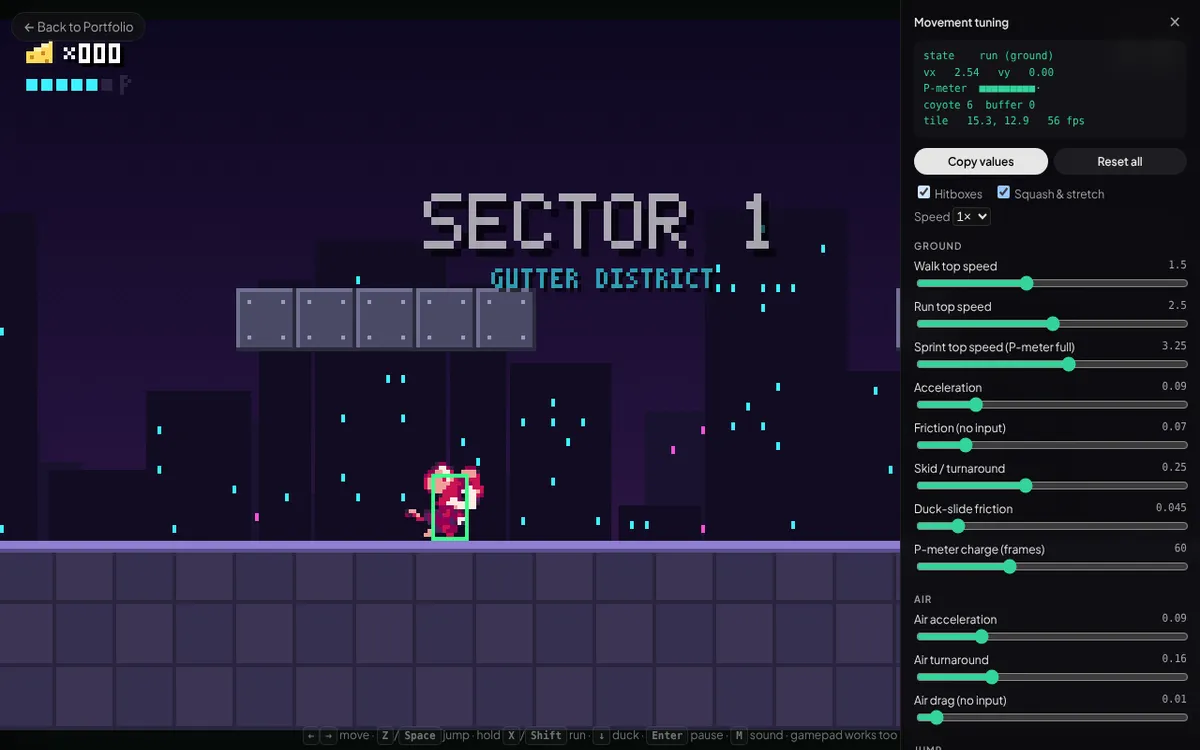
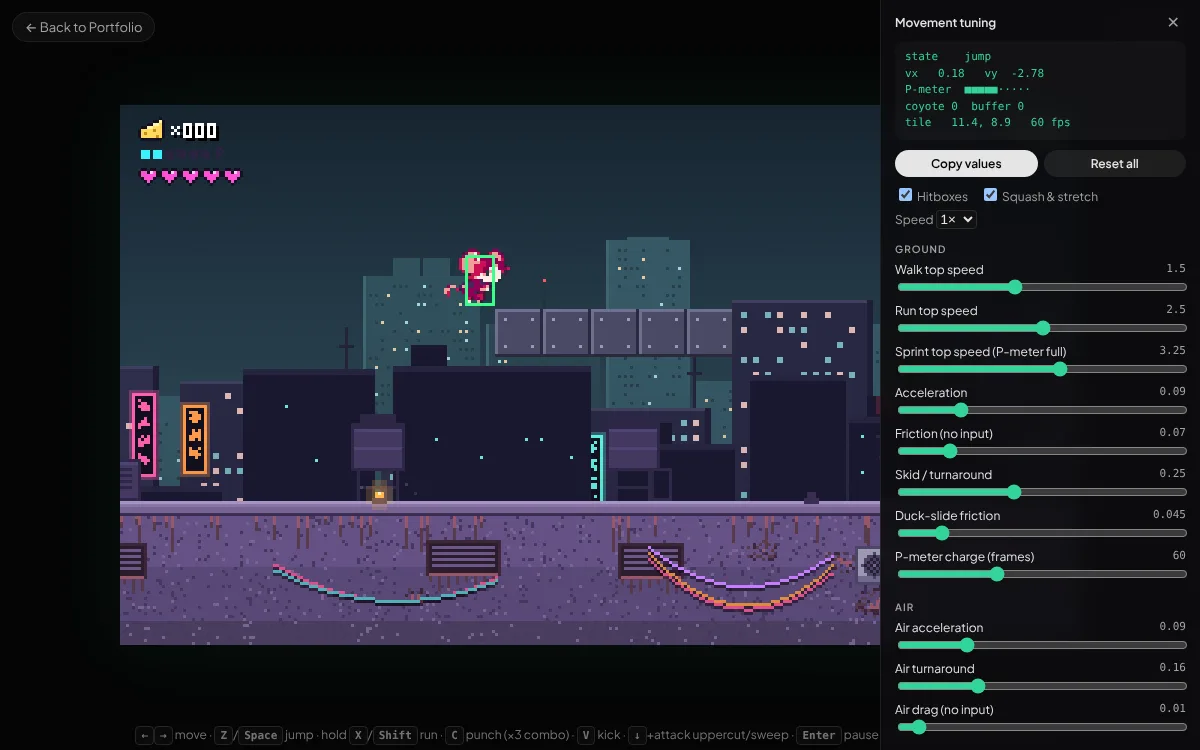
Site UX pass: phone menu, scrollspy, hero matches the game
- Phones get a real menu: the homepage's seven section links open as a
  sheet (aria-expanded, focus moves in, Esc/link/outside tap closes it).
  Subpage headers keep their two links inline and fit down to 360px.
- Desktop nav highlights the section on screen; anchor jumps clear the
  sticky header (scroll-padding-top).
- Hero canvas is now 320x180 and drawn with the game's own skyline and
  rooftop painter, so it matches Mousecapades v0.5; larger in the grid.
  Fixes reduced-motion visitors seeing the placeholder mouse forever.
- New tuning-panel screenshot with the current art.
- Honest copy: gallery and services no longer imply hand-drawn sprites.
- Palette swatch contrast fix (axe now clean in light and dark).
- CLAUDE.md documents the header and hero conventions.

Claude-Session: https://claude.ai/code/session_01HrtLAUuepTiWPixLfD6zXR

diff --git a/assets/js/hero-mouse.js b/assets/js/hero-mouse.js
@@ -1,13 +1,18 @@
-// Homepage hero: the Mousecapades mouse running a tiny endless strip, using the game's own
-// sprite and font code. Click, tap or press Space/↑ on the stage to jump. Also hosts the
-// Konami-code easter egg (cheese rain).
+// Homepage hero: the Mousecapades mouse running an endless rooftop, drawn with the game's own
+// sprite, font, skyline and rooftop code so the hero always matches the game. Click, tap or
+// press Space/↑ on the stage to jump. Also hosts the Konami-code easter egg (cheese rain).
 import { drawPlayer } from '../../games/mousecapades/js/render.js';
 import { makeSprites, blit } from '../../games/mousecapades/js/sprites.js';
 import { drawText } from '../../games/mousecapades/js/font.js';
+import { spriteReady } from '../../games/mousecapades/js/mouse-sprite.js';
+import { Backdrop } from '../../games/mousecapades/js/backdrop.js';
+import { buildScenery, drawLights } from '../../games/mousecapades/js/scenery.js';
+import { Level, builder } from '../../games/mousecapades/js/level.js';
 
-const W = 256;
-const H = 120;
-const FLOOR = 96;
+const W = 320;
+const H = 180;
+const FLOOR = 148;
+const ROOF_ROW = 9; // rooftop surface row in the strip below (9 × 16 = 144 px)
 
 const canvas = document.getElementById('hero-stage');
 const sp = makeSprites();
@@ -19,7 +24,8 @@ if (canvas) {
   canvas.height = H;
   const ctx = canvas.getContext('2d');
   ctx.imageSmoothingEnabled = false;
-  const city = skyline();
+  const backdrop = new Backdrop();
+  const roof = rooftop();
 
   const mouse = { x: 40, y: FLOOR - 17, w: 10, h: 17, vx: 0, vy: 0, facing: 1, grounded: true, anim: 0, sx: 1, sy: 1, state: 'idle', ducking: false };
   const chips = [];
@@ -94,21 +100,15 @@ if (canvas) {
   }
 
   function draw() {
-    const g = ctx.createLinearGradient(0, 0, 0, H);
-    g.addColorStop(0, '#0d0820'); g.addColorStop(0.7, '#2a1440'); g.addColorStop(1, '#3a1a4a');
-    ctx.fillStyle = g;
-    ctx.fillRect(0, 0, W, H);
-    const off = -Math.round(scroll * 0.3) % city.width;
-    for (let x = off; x < W; x += city.width) ctx.drawImage(city, x, FLOOR - city.height + 4);
-
-    // Ground strip in the game's tile colours.
-    const gOff = -Math.round(scroll) % 16;
-    for (let x = gOff; x < W; x += 16) {
-      ctx.fillStyle = ((x - gOff) / 16) % 2 ? '#3b3454' : '#363050';
-      ctx.fillRect(x, FLOOR, 16, H - FLOOR);
+    backdrop.draw(ctx, Math.round(scroll), 60, t);
+    // The rooftop strip tiles sideways; its lamps blink like the game's.
+    const rw = roof.canvas.width;
+    const rOff = Math.round(scroll) % rw;
+    const dy = FLOOR - ROOF_ROW * 16;
+    for (let x = -rOff; x < W; x += rw) {
+      ctx.drawImage(roof.canvas, x, dy);
+      drawLights(ctx, roof.lights, -x, -dy, t);
     }
-    ctx.fillStyle = '#8f7fd0'; ctx.fillRect(0, FLOOR, W, 2);
-    ctx.fillStyle = '#5c4f8f'; ctx.fillRect(0, FLOOR + 2, W, 1);
 
     for (const c of chips) blit(ctx, sp.chip, c.x, c.y + Math.round(Math.sin((t + c.bob * 10) * 0.08) * 1.5));
     ctx.fillStyle = '#ffd95e';
@@ -120,7 +120,10 @@ if (canvas) {
   }
 
   if (reduceMotion) {
+    // One still frame, redrawn once the sprite sheet has loaded.
     draw();
+    const wait = setInterval(() => { if (spriteReady()) { draw(); clearInterval(wait); } }, 100);
+    setTimeout(() => clearInterval(wait), 5000);
   } else {
     let visible = true;
     new IntersectionObserver(([e]) => { visible = e.isIntersecting; }).observe(canvas);
@@ -167,26 +170,9 @@ function cheeseRain() {
   setTimeout(() => layer.remove(), 5000);
 }
 
-// Small procedural skyline, same idea as the game's parallax layer.
-function skyline() {
-  const c = document.createElement('canvas');
-  c.width = 300;
-  c.height = 70;
-  const g = c.getContext('2d');
-  let seed = 7;
-  const rand = () => ((seed = (seed * 16807) % 2147483647) / 2147483647);
-  let x = 0;
-  while (x < c.width) {
-    const w = 12 + Math.floor(rand() * 22);
-    const h = 18 + Math.floor(rand() * 48);
-    g.fillStyle = '#1a1230';
-    g.fillRect(x, c.height - h, w, h);
-    for (let wy = c.height - h + 4; wy < c.height - 4; wy += 5) {
-      for (let wx = x + 3; wx < x + w - 3; wx += 4) {
-        if (rand() < 0.12) { g.fillStyle = rand() < 0.5 ? '#ff4fd8' : '#ffd95e'; g.fillRect(wx, wy, 1, 2); }
-      }
-    }
-    x += w + Math.floor(rand() * 3);
-  }
-  return c;
+// A flat stretch of roof baked with the game's scenery painter (40 tiles, then it repeats).
+function rooftop() {
+  const L = new Level(40, 12);
+  builder(L, ROOF_ROW).ground(0, 39);
+  return buildScenery(L);
 }

diff --git a/index.html b/index.html
@@ -44,7 +44,7 @@
                 Ross Grant
             </a>
             <nav class="nav" aria-label="Primary">
-                <div class="nav-links">
+                <div class="nav-links" id="nav-links">
                     <a href="#work">Work</a>
                     <a href="#art">Art</a>
                     <a href="#process">Process</a>
@@ -53,6 +53,9 @@
                     <a href="#contact">Contact</a>
                     <a href="resume.html">Résumé</a>
                 </div>
+                <button class="icon-btn menu-btn" type="button" aria-expanded="false" aria-controls="nav-links" aria-label="Open menu" data-menu-toggle>
+                    <svg viewBox="0 0 24 24" fill="none" stroke="currentColor" stroke-width="2" stroke-linecap="round" aria-hidden="true"><path class="menu-open" d="M4 7h16M4 12h16M4 17h16"/><path class="menu-close" d="M6 6l12 12M18 6L6 18"/></svg>
+                </button>
                 <button class="icon-btn" type="button" data-theme-toggle>
                     <svg viewBox="0 0 24 24" fill="none" stroke="currentColor" stroke-width="2" stroke-linecap="round" aria-hidden="true"><path d="M21 12.8A9 9 0 1 1 11.2 3a7 7 0 0 0 9.8 9.8z"/></svg>
                 </button>
@@ -75,8 +78,8 @@
                     </div>
                 </div>
                 <figure class="stage" style="margin:0">
-                    <canvas id="hero-stage" class="pixel" width="256" height="120" tabindex="0"
-                        aria-label="Animated pixel-art mouse running and collecting cheese. Click or press Space to make her jump."></canvas>
+                    <canvas id="hero-stage" class="pixel" width="320" height="180" tabindex="0"
+                        aria-label="Animated pixel-art mouse running across neon-lit rooftops and collecting cheese. Click or press Space to make her jump."></canvas>
                     <figcaption class="stage-caption">
                         <span>Click or press <kbd>Space</kbd> to jump</span>
                         <a href="#mousecapades">She's from Mousecapades ↓</a>
@@ -192,7 +195,7 @@
                 <div class="section-head reveal">
                     <span class="eyebrow">Art &amp; visuals</span>
                     <h2>Every pixel placed on purpose.</h2>
-                    <p class="lede">Sprites, tiles and screens from Mousecapades, all drawn to a 320 × 180 canvas and scaled up with hard edges.</p>
+                    <p class="lede">Characters, enemies and screens from Mousecapades. Everything renders at 320 × 180 and scales up with hard pixel edges.</p>
                 </div>
                 <div class="gallery reveal">
                     <figure class="span2">
@@ -215,7 +218,7 @@
                         <div class="palette" role="img" aria-label="Game palette swatches">
                             <span style="background:#162430">162430</span><span style="background:#365866">365866</span>
                             <span style="background:#282743">282743</span><span style="background:#655185">655185</span>
-                            <span style="background:#ff5fae">ff5fae</span><span style="background:#5ff0e0;color:#162430;text-shadow:none">5ff0e0</span>
+                            <span style="background:#ff5fae;color:#162430;text-shadow:none">ff5fae</span><span style="background:#5ff0e0;color:#162430;text-shadow:none">5ff0e0</span>
                             <span style="background:#ffd95e;color:#162430;text-shadow:none">ffd95e</span><span style="background:#a593c4;color:#162430;text-shadow:none">a593c4</span>
                         </div>
                         <figcaption>Palette</figcaption>
@@ -313,7 +316,7 @@
                     </article>
                     <article class="service">
                         <h3>Pixel art &amp; game UI</h3>
-                        <p>Characters, tilesets, HUDs and menus, drawn in a palette built for your game and delivered as clean sprite sheets.</p>
+                        <p>Characters, tilesets, HUDs and menus, art-directed to a palette built for your game and delivered as clean, game-ready sprite sheets.</p>
                     </article>
                     <article class="service">
                         <h3>Playable prototypes</h3>

diff --git a/assets/css/site.css b/assets/css/site.css
@@ -45,7 +45,7 @@
 /* ---- Base ---------------------------------------------------------------- */
 
 *, *::before, *::after { box-sizing: border-box; }
-html { scroll-behavior: smooth; -webkit-text-size-adjust: 100%; }
+html { scroll-behavior: smooth; scroll-padding-top: 76px; -webkit-text-size-adjust: 100%; }
 body {
   margin: 0;
   background: var(--paper);
@@ -128,14 +128,41 @@ p { margin: 0 0 var(--s3); }
 }
 .icon-btn:hover { border-color: var(--ink); }
 .icon-btn svg { width: 20px; height: 20px; }
+.nav a[aria-current="true"] { color: var(--ink); background: var(--surface-2); }
 .nav .nav-links { display: none; }
-@media (min-width: 820px) { .nav .nav-links { display: flex; } }
+.nav .nav-links.compact { display: flex; }
+.menu-btn .menu-close, .menu-btn[aria-expanded="true"] .menu-open { display: none; }
+.menu-btn[aria-expanded="true"] .menu-close { display: inline; }
+@media (min-width: 820px) {
+  .nav .nav-links { display: flex; }
+  .menu-btn { display: none; }
+}
+@media (max-width: 480px) {
+  .site-header .wrap { gap: var(--s2); }
+}
+/* Phones: the homepage's section links open as a sheet under the header; subpages keep their
+   two short links inline (.compact). */
+@media (max-width: 819px) {
+  .nav .nav-links.compact a { padding: 10px 8px; font-size: 0.9rem; white-space: nowrap; }
+  .wordmark { white-space: nowrap; }
+  .nav .nav-links.open {
+    display: flex; flex-direction: column; gap: 2px;
+    position: fixed; top: 68px; left: 0; right: 0; max-height: calc(100dvh - 68px); overflow-y: auto;
+    padding: var(--s2) var(--s3) var(--s4); background: var(--paper);
+    border-bottom: 1px solid var(--line); box-shadow: var(--shadow);
+  }
+  .nav .nav-links.open a { padding: 14px 16px; font-size: 1.1rem; border-radius: var(--radius-sm); color: var(--ink); }
+}
+@media (max-width: 400px) {
+  .wordmark { font-size: 1.05rem; gap: 8px; }
+  .nav .nav-links.compact a { padding: 10px 6px; font-size: 0.85rem; }
+}
 
 /* ---- Hero ---------------------------------------------------------------- */
 
 .hero { padding-block: clamp(48px, 9vw, 112px) clamp(48px, 7vw, 88px); }
 .hero-grid { display: grid; gap: var(--s6); align-items: center; }
-@media (min-width: 960px) { .hero-grid { grid-template-columns: 1.1fr 0.9fr; } }
+@media (min-width: 960px) { .hero-grid { grid-template-columns: 1fr 1fr; } }
 .hero h1 { margin: var(--s3) 0 var(--s4); }
 .hero h1 em { font-style: italic; color: var(--accent); font-variation-settings: 'SOFT' 100, 'opsz' 144, 'WONK' 1; }
 .hero .lede { margin-bottom: var(--s5); }

diff --git a/assets/js/site.js b/assets/js/site.js
@@ -31,6 +31,40 @@
     onScroll();
   }
 
+  // Phone menu: the section links open as a sheet; Esc, a link or a tap outside closes it.
+  const menuBtn = document.querySelector('[data-menu-toggle]');
+  const menu = menuBtn && document.getElementById(menuBtn.getAttribute('aria-controls'));
+  if (menu) {
+    const setOpen = (open, refocus) => {
+      menu.classList.toggle('open', open);
+      menuBtn.setAttribute('aria-expanded', String(open));
+      menuBtn.setAttribute('aria-label', open ? 'Close menu' : 'Open menu');
+      if (open) menu.querySelector('a').focus();
+      else if (refocus) menuBtn.focus();
+    };
+    menuBtn.addEventListener('click', () => setOpen(!menu.classList.contains('open')));
+    menu.addEventListener('click', (e) => { if (e.target.closest('a')) setOpen(false); });
+    document.addEventListener('keydown', (e) => { if (e.key === 'Escape' && menu.classList.contains('open')) setOpen(false, true); });
+    document.addEventListener('click', (e) => { if (menu.classList.contains('open') && !e.target.closest('.nav')) setOpen(false); });
+    window.matchMedia('(min-width: 820px)').addEventListener('change', () => setOpen(false));
+  }
+
+  // Scrollspy: highlight the nav link for the section on screen.
+  const spyLinks = [...document.querySelectorAll('.nav-links a[href^="#"]')];
+  const spied = spyLinks.map((a) => document.getElementById(a.hash.slice(1))).filter(Boolean);
+  if (spied.length && 'IntersectionObserver' in window) {
+    const spy = new IntersectionObserver((entries) => {
+      entries.forEach((e) => {
+        if (!e.isIntersecting) return;
+        spyLinks.forEach((a) => {
+          if (a.hash === `#${e.target.id}`) a.setAttribute('aria-current', 'true');
+          else a.removeAttribute('aria-current');
+        });
+      });
+    }, { rootMargin: '-45% 0px -50% 0px' });
+    spied.forEach((el) => spy.observe(el));
+  }
+
   const reveals = document.querySelectorAll('.reveal');
   if ('IntersectionObserver' in window) {
     const io = new IntersectionObserver((entries) => {

diff --git a/notes/tuning-the-jump.html b/notes/tuning-the-jump.html
@@ -22,7 +22,7 @@
         <div class="wrap">
             <a class="wordmark" href="../index.html"><img class="pixel" src="../favicon.svg" alt="" width="28" height="28">Ross Grant</a>
             <nav class="nav" aria-label="Primary">
-                <div class="nav-links"><a href="../index.html#work">← All work</a><a href="../index.html#contact">Contact</a></div>
+                <div class="nav-links compact"><a href="../index.html#work">← All work</a><a href="../index.html#contact">Contact</a></div>
                 <button class="icon-btn" type="button" data-theme-toggle>
                     <svg viewBox="0 0 24 24" fill="none" stroke="currentColor" stroke-width="2" stroke-linecap="round" aria-hidden="true"><path d="M21 12.8A9 9 0 1 1 11.2 3a7 7 0 0 0 9.8 9.8z"/></svg>
                 </button>

diff --git a/work/mousecapades.html b/work/mousecapades.html
@@ -21,7 +21,7 @@
         <div class="wrap">
             <a class="wordmark" href="../index.html"><img class="pixel" src="../favicon.svg" alt="" width="28" height="28">Ross Grant</a>
             <nav class="nav" aria-label="Primary">
-                <div class="nav-links"><a href="../index.html#work">← All work</a><a href="../index.html#contact">Contact</a></div>
+                <div class="nav-links compact"><a href="../index.html#work">← All work</a><a href="../index.html#contact">Contact</a></div>
                 <button class="icon-btn" type="button" data-theme-toggle>
                     <svg viewBox="0 0 24 24" fill="none" stroke="currentColor" stroke-width="2" stroke-linecap="round" aria-hidden="true"><path d="M21 12.8A9 9 0 1 1 11.2 3a7 7 0 0 0 9.8 9.8z"/></svg>
                 </button>

diff --git a/work/vibepaint.html b/work/vibepaint.html
@@ -21,7 +21,7 @@
         <div class="wrap">
             <a class="wordmark" href="../index.html"><img class="pixel" src="../favicon.svg" alt="" width="28" height="28">Ross Grant</a>
             <nav class="nav" aria-label="Primary">
-                <div class="nav-links"><a href="../index.html#work">← All work</a><a href="../index.html#contact">Contact</a></div>
+                <div class="nav-links compact"><a href="../index.html#work">← All work</a><a href="../index.html#contact">Contact</a></div>
                 <button class="icon-btn" type="button" data-theme-toggle>
                     <svg viewBox="0 0 24 24" fill="none" stroke="currentColor" stroke-width="2" stroke-linecap="round" aria-hidden="true"><path d="M21 12.8A9 9 0 1 1 11.2 3a7 7 0 0 0 9.8 9.8z"/></svg>
                 </button>

diff --git a/work/vibesync.html b/work/vibesync.html
@@ -21,7 +21,7 @@
         <div class="wrap">
             <a class="wordmark" href="../index.html"><img class="pixel" src="../favicon.svg" alt="" width="28" height="28">Ross Grant</a>
             <nav class="nav" aria-label="Primary">
-                <div class="nav-links"><a href="../index.html#work">← All work</a><a href="../index.html#contact">Contact</a></div>
+                <div class="nav-links compact"><a href="../index.html#work">← All work</a><a href="../index.html#contact">Contact</a></div>
                 <button class="icon-btn" type="button" data-theme-toggle>
                     <svg viewBox="0 0 24 24" fill="none" stroke="currentColor" stroke-width="2" stroke-linecap="round" aria-hidden="true"><path d="M21 12.8A9 9 0 1 1 11.2 3a7 7 0 0 0 9.8 9.8z"/></svg>
                 </button>

diff --git a/resume.html b/resume.html
@@ -19,7 +19,7 @@
         <div class="wrap">
             <a class="wordmark" href="index.html"><img class="pixel" src="favicon.svg" alt="" width="28" height="28">Ross Grant</a>
             <nav class="nav" aria-label="Primary">
-                <div class="nav-links"><a href="index.html#work">Work</a><a href="index.html#contact">Contact</a></div>
+                <div class="nav-links compact"><a href="index.html#work">Work</a><a href="index.html#contact">Contact</a></div>
                 <button class="icon-btn" type="button" data-theme-toggle>
                     <svg viewBox="0 0 24 24" fill="none" stroke="currentColor" stroke-width="2" stroke-linecap="round" aria-hidden="true"><path d="M21 12.8A9 9 0 1 1 11.2 3a7 7 0 0 0 9.8 9.8z"/></svg>
                 </button>

diff --git a/CLAUDE.md b/CLAUDE.md
@@ -47,6 +47,11 @@ See `ROADMAP.md` for the build plan and what's live vs. pending.
   Owner-only TODOs go in HTML comments (`<!-- TODO(Ross): ... -->`).
 - The Gemini app pages use Tailwind CDN + Plus Jakarta Sans; pin any CDN script to an exact version.
 - Every project page has a visible "← Back to Portfolio" link to `index.html`, including on mobile.
+- Header nav: the homepage's section links collapse into a phone menu (`data-menu-toggle` + `#nav-links`, handled in
+  `site.js`, which also highlights the section on screen); subpages use `.nav-links.compact` (two short links that
+  stay inline on phones). Keep every page free of horizontal scroll down to 360px wide.
+- The homepage hero canvas reuses the game's own skyline (`backdrop.js`) and rooftop painter (`scenery.js`), so it
+  always matches the current game art.
 
 ## Game (`games/mousecapades/`)
 
